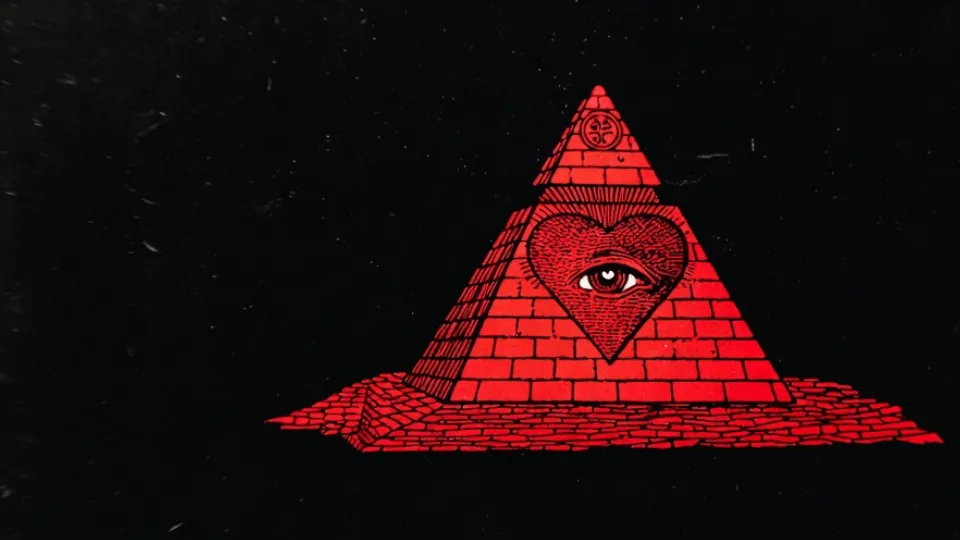
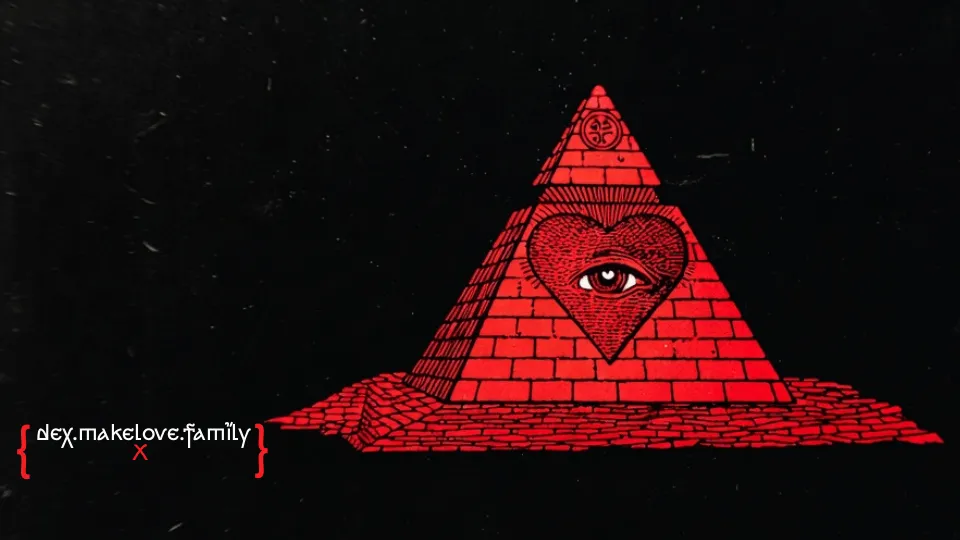
Update DEX configuration and branding

Changed region(s): [[0.0, 0.7704, 0.2812, 0.8889]]

diff --git a/public/config.js b/public/config.js
@@ -4,7 +4,7 @@ window.__RUNTIME_CONFIG__ = {
   "VITE_BROKER_EOA_ADDRESS": "0xc9aacb3bc5690fb6d52298e40cc6ae7e74fd0a06",
   "VITE_DISABLE_MAINNET": "false",
   "VITE_DISABLE_TESTNET": "false",
-  "VITE_ORDERLY_MAINNET_CHAINS": "1,900900900,1329,146,1514,56,143,43114,80094,42161,8453,2818,98866,10,5000,34443,2741",
+  "VITE_ORDERLY_MAINNET_CHAINS": "1,900900900,1329,146,1514,56,143,43114,80094,42161,8453,2818,10,5000,34443,2741,98866",
   "VITE_ORDERLY_TESTNET_CHAINS": "97,901901901,10143,421614,11124",
   "VITE_DEFAULT_CHAIN": "",
   "VITE_PRIVY_APP_ID": "",
@@ -33,12 +33,12 @@ window.__RUNTIME_CONFIG__ = {
   "VITE_SEO_TWITTER_HANDLE": "@makeLOVEfamily",
   "VITE_SEO_THEME_COLOR": "#000000",
   "VITE_SEO_KEYWORDS": "dex, crypto, cryptocurrency, trading, perps, perpetual trading, orderly, makeLOVE, love, family, BTC DEX, ETH DEX, bitcoin dex, ethereum dex, solana dex, SOL DEX, top solana dex, love coin",
-  "VITE_AVAILABLE_LANGUAGES": "en,ar,fa,he,zh,ja,es,ko,vi,de,fr,id,tr,it,pt,uk,pl,nl,tc",
+  "VITE_AVAILABLE_LANGUAGES": "en,zh,ja,es,ko,vi,de,fr,pt,uk,pl,tc",
   "VITE_USE_CUSTOM_PNL_POSTERS": "true",
-  "VITE_CUSTOM_PNL_POSTER_COUNT": "2",
+  "VITE_CUSTOM_PNL_POSTER_COUNT": "1",
   "VITE_TRADING_VIEW_COLOR_CONFIG": "{\"upColor\":\"#3D8B7A\",\"downColor\":\"#e01b31\",\"pnlUpColor\":\"#3D8B7A\",\"pnlDownColor\":\"#e01b31\",\"chartBG\":\"#EDE4DC\"}",
   "VITE_ANALYTICS_SCRIPT": "",
-  "VITE_SYMBOL_LIST": "PERP_BTC_USDC,PERP_ETH_USDC,PERP_SOL_USDC,PERP_HYPE_USDC,PERP_FET_USDC,PERP_ARB_USDC,PERP_XPL_USDC,PERP_NEAR_USDC,PERP_ZEC_USDC,PERP_XAU_USDC,PERP_H_USDC,PERP_XRP_USDC,PERP_LINK_USDC,PERP_DOGE_USDC,PERP_POL_USDC,PERP_INJ_USDC,PERP_CL_USDC,PERP_XMR_USDC,PERP_BERA_USDC,PERP_WLD_USDC,PERP_TAO_USDC,PERP_TIA_USDC,PERP_TRX_USDC,PERP_TON_USDC,PERP_ZRO_USDC,PERP_MEGA_USDC,PERP_SEI_USDC,PERP_SUI_USDC,PERP_NAS100_USDC,PERP_TSLA_USDC,PERP_BNB_USDC,PERP_ONDO_USDC,PERP_NATGAS_USDC_arthur,PERP_XAG_USDC,PERP_VIRTUAL_USDC,PERP_USELESS_USDC,PERP_1000BONK_USDC,PERP_PENGU_USDC,PERP_PUMP_USDC,PERP_PENDLE_USDC,PERP_SPX500_USDC,PERP_LIT_USDC,PERP_BIO_USDC,PERP_ICP_USDC,PERP_AVAX_USDC,PERP_NVDA_USDC,PERP_S_USDC,PERP_FARTCOIN_USDC,PERP_M_USDC,PERP_MNT_USDC,PERP_STBL_USDC,PERP_TRUMP_USDC,PERP_ADA_USDC,PERP_FIL_USDC,PERP_ORDER_USDC,PERP_MORPHO_USDC,PERP_EDGE_USDC,PERP_ASTER_USDC,PERP_ENA_USDC,PERP_RAY_USDC,PERP_SKY_USDC,PERP_GOOGL_USDC,PERP_WLFI_USDC,PERP_LTC_USDC,PERP_1000PEPE_USDC,PERP_SPX_USDC,PERP_JUP_USDC,PERP_WOO_USDC,PERP_BASED_USDC,PERP_CRV_USDC,PERP_BCH_USDC,PERP_IP_USDC,PERP_LINEA_USDC,PERP_AAVE_USDC,PERP_MERL_USDC,PERP_OP_USDC,PERP_BZ_USDC,PERP_MON_USDC,PERP_ZEN_USDC,PERP_WIF_USDC,PERP_1000SHIB_USDC,PERP_UNI_USDC,PERP_BIRB_USDC,PERP_AXS_USDC,PERP_GOAT_USDC,PERP_CAKE_USDC,PERP_MYX_USDC,PERP_APT_USDC,PERP_SNX_USDC,PERP_HBAR_USDC,PERP_LDO_USDC,PERP_DASH_USDC,PERP_SKR_USDC,PERP_DOT_USDC,PERP_ETHFI_USDC,PERP_PAXG_USDC,PERP_AR_USDC,PERP_SPY_USDC_mythos,PERP_QQQ_USDC_mythos,PERP_EWY_USDC_mythos,PERP_SNDK_USDC_mythos,PERP_SOXL_USDC_mythos,PERP_SPCX_USDC_mythos,PERP_ALLO_USDC_mythos,PERP_SKHYNIX_USDC_mythos,PERP_XLM_USDC_mythos,PERP_DRAM_USDC_mythos,PERP_SYN_USDC_mythos,PERP_JTO_USDC_mythos,PERP_OPN_USDC_mythos,PERP_RE_USDC_mythos,PERP_WDC_USDC_mythos,PERP_MSTR_USDC_mythos,PERP_CBRS_USDC_mythos,PERP_HOME_USDC_mythos,PERP_NBIS_USDC_mythos,PERP_LITE_USDC_mythos,PERP_EIGEN_USDC_mythos,PERP_AMD_USDC_mythos,PERP_INTC_USDC_mythos,PERP_MSFT_USDC_mythos,PERP_AAPL_USDC_mythos,PERP_COIN_USDC_mythos,PERP_AMZN_USDC_mythos,PERP_CRCL_USDC_mythos,PERP_MRVL_USDC_mythos,PERP_HOOD_USDC_mythos,PERP_SAMSUNG_USDC_mythos,PERP_EURUSD_USDC,PERP_USDJPY_USDC,PERP_GLW_USDC_mythos,PERP_AAOI_USDC_mythos,PERP_KORU_USDC_mythos,PERP_GRAM_USDC_mythos",
+  "VITE_SYMBOL_LIST": "",
   "VITE_RESTRICTED_REGIONS": "United States,Afghanistan,Angola,Canada,Central African Republic,Democratic Republic of the Congo,Cuba,Guinea-Bissau,Iran,Iraq,North Korea,Lebanon,Liberia,Libya,Mali,Myanmar,Nicaragua,Somalia,South Sudan,Sudan,Syria,Venezuela,Yemen,Zimbabwe,U.S. Virgin Islands",
   "VITE_WHITELISTED_IPS": ""
 };